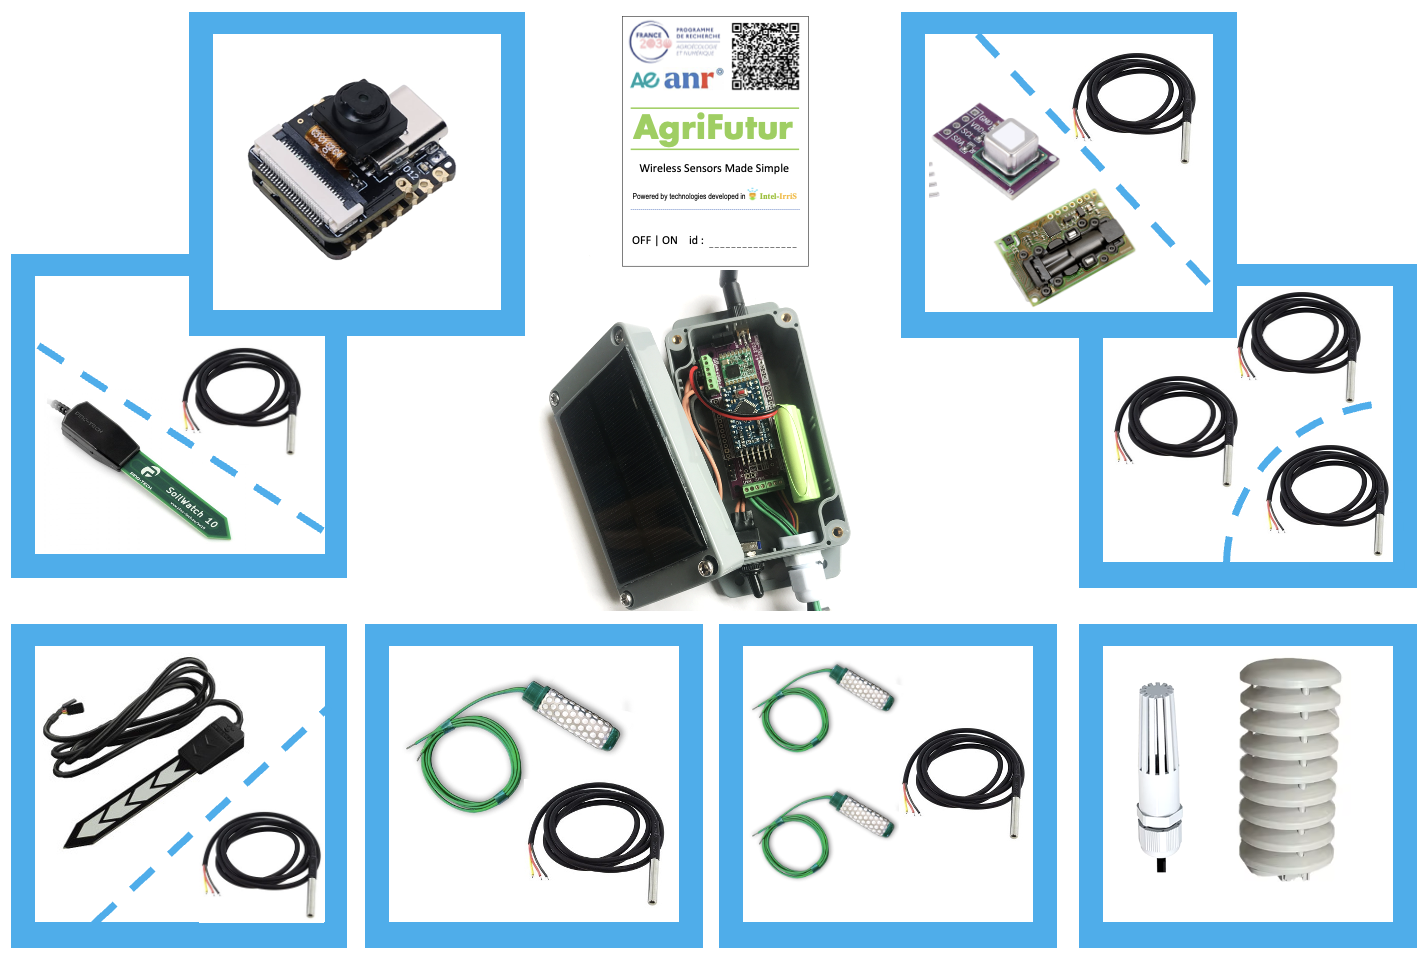
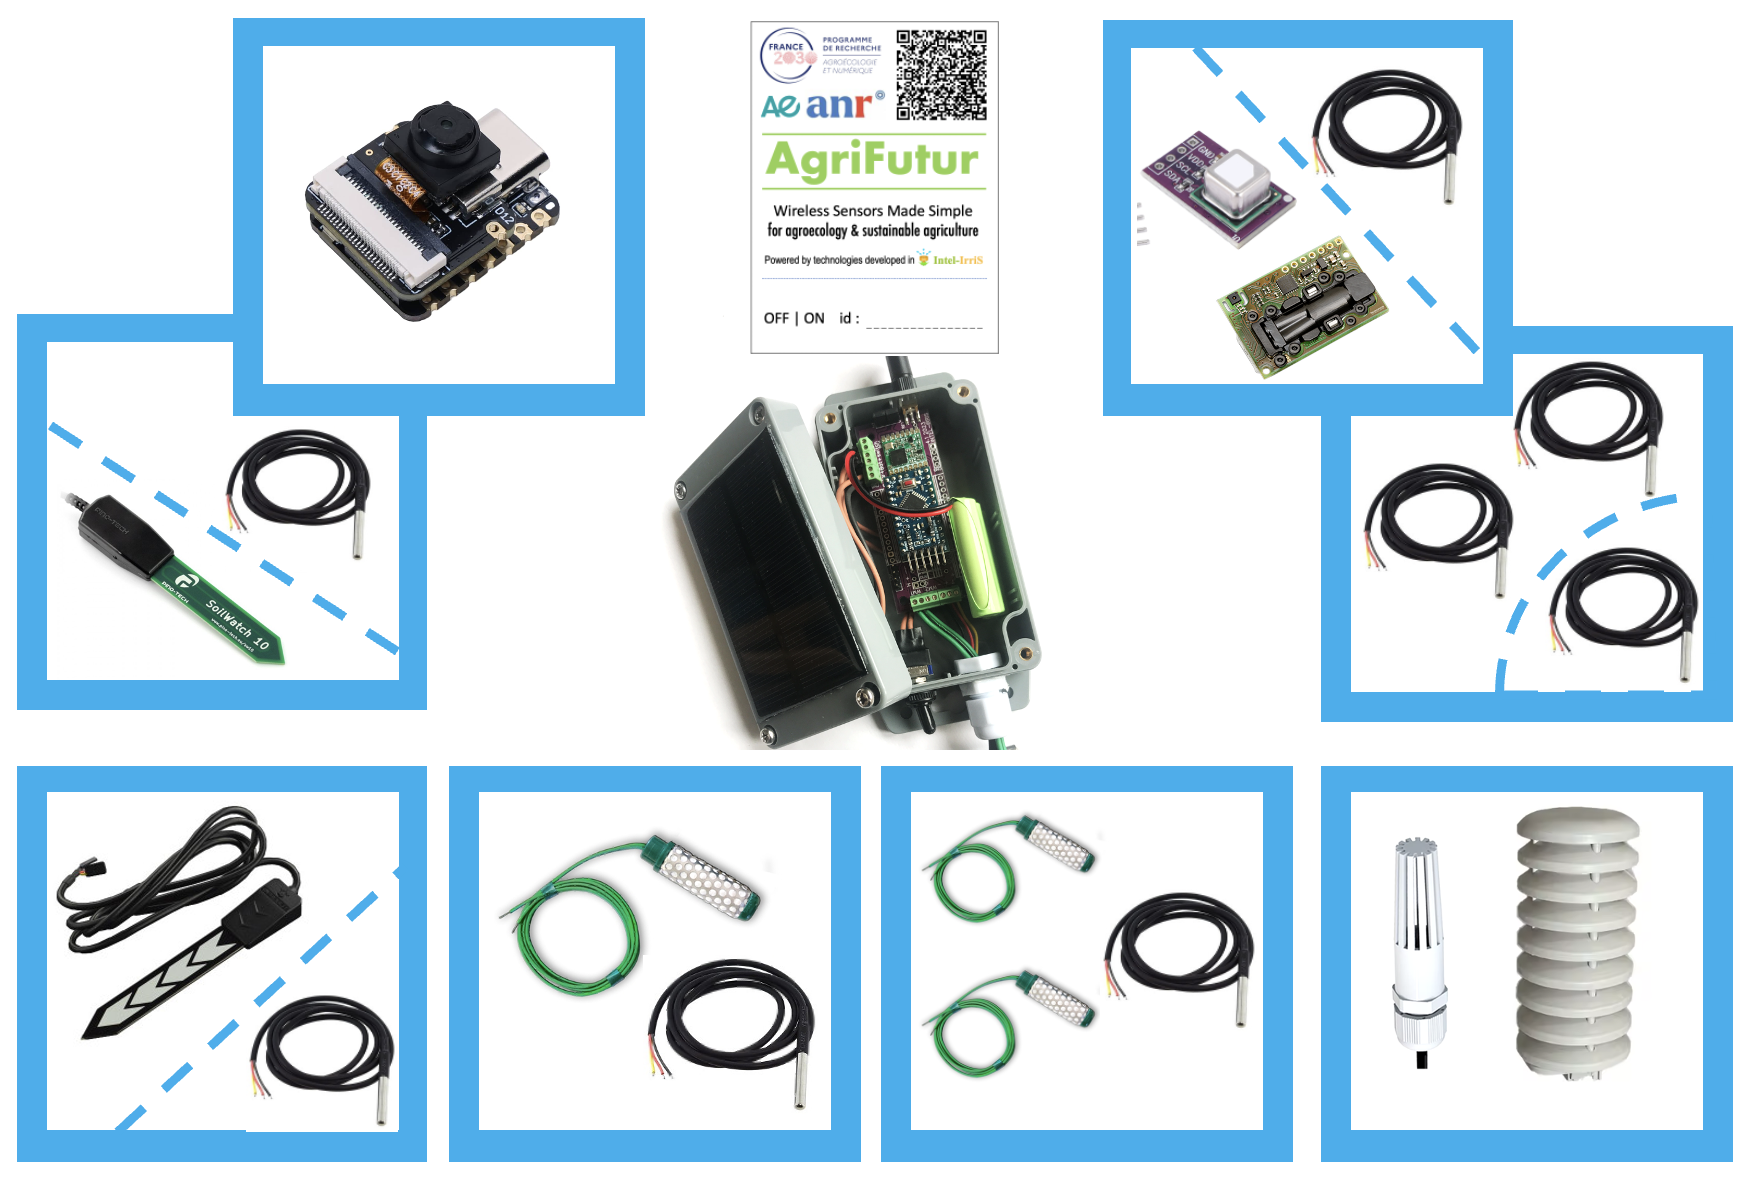
Update camera settings

diff --git a/README.md b/README.md
@@ -17,7 +17,7 @@ Quick start
 
 The [Arduino sketch](https://github.com/CongducPham/PEPR_AgriFutur/tree/main/Arduino/Generic_Simple_Sensor_Node) for the Generic Simple Sensor Node is in the [Arduino folder](https://github.com/CongducPham/PEPR_AgriFutur/tree/main/Arduino). It is based on the code developed for the [PRIMA INTEL-IRRIS project](https://intel-irris.eu/) that is now extended and maintained in the context of AgriFutur.
 
-<img src="https://github.com/CongducPham/PEPR_AgriFutur/blob/main/images/generic-sensors.png" width="400">
+<img src="https://github.com/CongducPham/PEPR_AgriFutur/blob/main/images/generic-sensors.png" width="600">
 
 The [PoC of a LoRa image sensor (LoRaCAM-AI)](https://github.com/CongducPham/PEPR_AgriFutur/tree/main/Arduino_ESP32/Arduino_ESP32_LoRaCAM_AI_on_esp32v3) based on ESP32 camera board is in the [Arduino_ESP32 folder](https://github.com/CongducPham/PEPR_AgriFutur/tree/main/Arduino_ESP32) where a dedicated [README](https://github.com/CongducPham/PEPR_AgriFutur/tree/main/Arduino_ESP32/README.md) is available. We tested several ESP32-based camera boards. The main criterion was to have enough pins left to easily connect an SPI LoRa radio module. 3 boards offer this capabilities: `Freenove ESP32-S3 WROOM`, `Freenove ESP32 WROVER v1.6` and `XIAO ESP32-S3 Sense`. The choice was finally set to the state-of-the-art `XIAO ESP32-S3 Sense` which has a huge developer community and enough resource to run some embedded AI processing that we want to add in the future, and all this in a quite compact format. If other boards appear on the market, the [LoRa test sketch](https://github.com/CongducPham/PEPR_AgriFutur/tree/main/Arduino_ESP32/Arduino_ESP32_LoRa_SX12XX_test) can be used to test whether the LoRa radio module you choose can be controlled by the pins on the new boards. Of course, you have to change the pin mapping and test.
 
